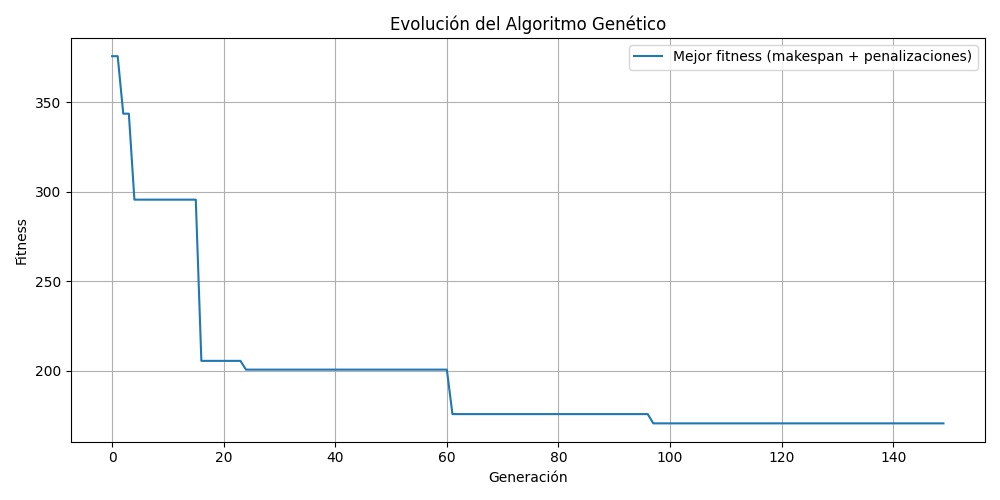
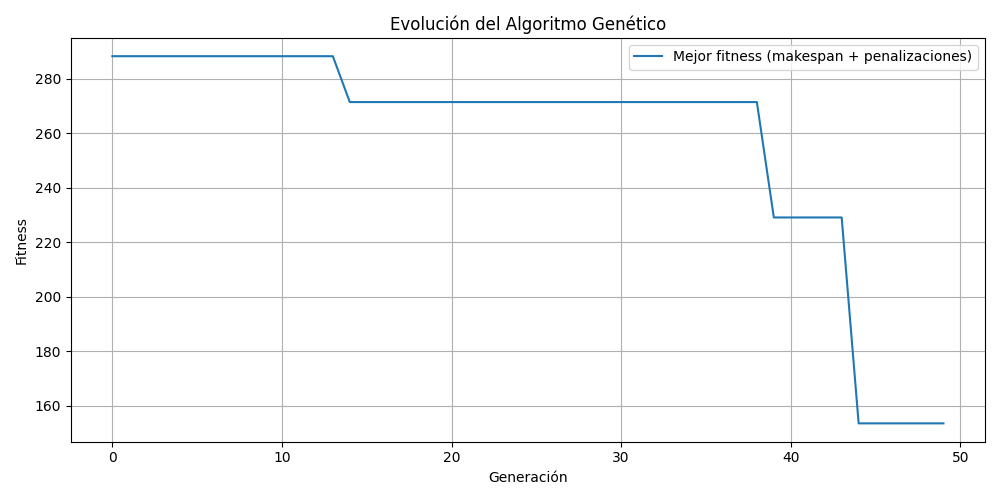
se cambio la lista de tareas por un diccionario unificado, se agregaron tipos de estaciones

diff --git a/src/gui/graph.py b/src/gui/graph.py
@@ -13,7 +13,7 @@ def graficar_evolucion(mejores):
     plt.savefig('results/evolucion_algoritmo.png')
     plt.show()
 
-def graficar_gantt(individuo, tiempos, num_estaciones, tareas):
+def graficar_gantt(individuo, infoTareas, num_estaciones, tareas):
     fig, ax = plt.subplots(figsize=(12, 6))
     colores = plt.cm.get_cmap('tab20', len(tareas))
     tiempos_actuales = [0]*num_estaciones
@@ -21,7 +21,7 @@ def graficar_gantt(individuo, tiempos, num_estaciones, tareas):
     for est_idx, est in enumerate(individuo):
         for tarea in est:
             inicio = tiempos_actuales[est_idx]
-            duracion = tiempos[tarea]
+            duracion = infoTareas[tarea]['tiempo']
             ax.broken_barh([(inicio, duracion)], (est_idx*10, 9), facecolors=colores(tareas.index(tarea)))
             ax.text(inicio + duracion/2, est_idx*10 + 4.5, tarea, ha='center', va='center', color='white', fontsize=8)
             tiempos_actuales[est_idx] += duracion
@@ -34,8 +34,8 @@ def graficar_gantt(individuo, tiempos, num_estaciones, tareas):
     plt.savefig('results/gantt_mejor_solucion.png')
     plt.show()
 
-def ventana_top_3(poblacion, tiempos, dependencias, fitness_func):
-    top_3 = sorted(poblacion, key=lambda ind: fitness_func(ind, dependencias, tiempos))[:3]
+def ventana_top_3(poblacion, infoTareas, dependencias, fitness_func):
+    top_3 = sorted(poblacion, key=lambda ind: fitness_func(ind, dependencias, infoTareas))[:3]
 
     ventana = tk.Toplevel()
     ventana.title("Top 3 mejores soluciones")
@@ -46,21 +46,21 @@ def ventana_top_3(poblacion, tiempos, dependencias, fitness_func):
 
     texto.insert(tk.END, "Tabla con los 3 mejores resultados:\n\n")
     for i, ind in enumerate(top_3, start=1):
-        texto.insert(tk.END, f"🔹 Individuo {i} - Fitness total: {fitness_func(ind, dependencias, tiempos):.2f}\n")
+        texto.insert(tk.END, f"🔹 Individuo {i} - Fitness total: {fitness_func(ind, dependencias, infoTareas):.2f}\n")
         ttf = 0
         for est_idx, est in enumerate(ind):
             tareas = ', '.join(est)
-            tiempo_total = sum(tiempos[t] for t in est)
+            tiempo_total = sum(infoTareas[t]['tiempo'] for t in est)
             texto.insert(tk.END, f"   Estación {est_idx+1}: [{tareas}] - Tiempo total: {tiempo_total}\n")
         texto.insert(tk.END, "\n")
 
     texto.config(state='disabled')
 
-def ventana_resumen_mejor(poblacion, tiempos, dependencias, fitness_func):
-    mejor = min(poblacion, key=lambda ind: fitness_func(ind, dependencias, tiempos))
-    cargas = [sum(tiempos[t] for t in est) for est in mejor]
+def ventana_resumen_mejor(poblacion, infoTareas, dependencias, fitness_func):
+    mejor = min(poblacion, key=lambda ind: fitness_func(ind, dependencias, infoTareas))
+    cargas = [sum(infoTareas[t]['tiempo'] for t in est) for est in mejor]
     makespan = max(cargas)
-    penalizaciones = fitness_func(mejor, dependencias, tiempos) - makespan
+    penalizaciones = fitness_func(mejor, dependencias, infoTareas) - makespan
 
     ventana = tk.Toplevel()
     ventana.title("Resumen del mejor individuo")

diff --git a/src/gui/visual.py b/src/gui/visual.py
@@ -1,4 +1,4 @@
-from src.ag import ejecutar_ag as ag
+from src.ag.ejecutar_ag import ejecutar_algoritmo_genetico
 import tkinter as tk
 from tkinter import messagebox
 import pandas as pd
@@ -16,6 +16,9 @@ def iniciar_interfaz():
             p_cruza = float(entry_cruza.get())
             p_mutacion = float(entry_mutacion.get())
 
+            if (isinstance(estaciones, int) and estaciones >=5):
+                raise ValueError("El valor de estaciones debe ser por lo menos de 5.")
+
             if not (0 <= p_cruza <= 1 and 0 <= p_mutacion <= 1):
                 raise ValueError("Las probabilidades deben estar entre 0.0 y 1.0")
 
@@ -23,33 +26,28 @@ def iniciar_interfaz():
             if not {'Nombre', 'Tiempo'}.issubset(tareas_df.columns):
                 raise ValueError("El archivo de tareas debe tener las columnas 'Nombre' y 'Tiempo'.")
 
-            nombres = list(tareas_df['Nombre'])
-            tiempos = dict(zip(tareas_df['Nombre'], tareas_df['Tiempo']))
+            nombresTareas = list(tareas_df['Nombre'])
+            infoTareas = {
+                row['Nombre']: {
+                    'tiempo': row['Tiempo'],
+                    'tipo': row['Tipo']
+                } for _, row in tareas_df.iterrows()
+        }
 
             # Convertir precedencias_df a diccionario de listas
             matPrecedencias = {}
-            #print("Claves de dependencias:", precedencias_df.index.unique())
-            #print("Valores para dependencias:", precedencias_df.columns)
-            for nombre in nombres:
+            for nombre in nombresTareas:
                 if nombre in precedencias_df.index:
                     deps = precedencias_df.loc[nombre]
-                    #print(f"Tarea: {nombre}")
-                    #print(f"Tipo deps: {type(deps)}")
-                    #print(deps)
                     if isinstance(deps, pd.DataFrame):
                         deps = deps.iloc[0]
-                        #print(f"Tarea: {nombre}")
-                        #print(f"Tipo deps: {type(deps)}")
-                        #print(deps)
                     matPrecedencias[nombre] = deps[deps == 1].index.tolist()
                 else:
                     matPrecedencias[nombre] = []
 
-            # Llama al algoritmo genético y obtiene los resultados
-            mejor_individuo, evolucion = ag.ejecutar_algoritmo_genetico(
-                nombres, tiempos, matPrecedencias, estaciones, poblacion, generaciones, p_cruza, p_mutacion)
-
-            #messagebox.showinfo("Éxito", "Algoritmo ejecutado correctamente. Revisa las gráficas generadas.")
+            # Llama al algoritmo genético
+            mejor_individuo, evolucion = ejecutar_algoritmo_genetico(
+                nombresTareas, infoTareas, matPrecedencias, estaciones, poblacion, generaciones, p_cruza, p_mutacion)
 
         except Exception as e:
             messagebox.showerror("Error", f"Datos inválidos:\n{e}")

diff --git a/src/ag/ejecutar_ag.py b/src/ag/ejecutar_ag.py
@@ -2,14 +2,14 @@ from src.ag.emparejamiento import emparejamiento
 from src.ag.cruza import cruza
 from src.ag.mutacion import mutacion
 from src.ag.poda import poda
-from src.ag.other_methods import generar_individuo
+from src.ag.individuos import generar_individuo
 from src.ag.fitness import fitness
 from src.gui import graph as graph
 
 import copy
 import random
 
-def ejecutar_algoritmo_genetico(tareas, tiempos, dependencias, num_estaciones,
+def ejecutar_algoritmo_genetico(tareas, infoTareas, dependencias, num_estaciones,
                                 tam_poblacion, num_generaciones, prob_cruza, prob_mutacion):
 
     poblacion = [generar_individuo(tareas, num_estaciones) for _ in range(tam_poblacion)]
@@ -39,11 +39,11 @@ def ejecutar_algoritmo_genetico(tareas, tiempos, dependencias, num_estaciones,
         poblacion.extend(nueva_poblacion)
 
         # Poda para mantener tamaño de población
-        poblacion = poda(poblacion, dependencias, tiempos, tam_poblacion)
+        poblacion = poda(poblacion, dependencias, infoTareas, tam_poblacion)
 
         # Evaluar mejor individuo
-        poblacion.sort(key=lambda ind: fitness(ind, dependencias, tiempos))
-        fit_actual = fitness(poblacion[0], dependencias, tiempos)
+        poblacion.sort(key=lambda ind: fitness(ind, dependencias, infoTareas))
+        fit_actual = fitness(poblacion[0], dependencias, infoTareas)
         evolucion.append(fit_actual)
         if fit_actual < mejor_fitness:
             mejor_fitness = fit_actual
@@ -51,8 +51,8 @@ def ejecutar_algoritmo_genetico(tareas, tiempos, dependencias, num_estaciones,
 
     # Graficar resultados
     graph.graficar_evolucion(evolucion)
-    graph.graficar_gantt(mejor_individuo, tiempos, num_estaciones, tareas)
-    graph.ventana_top_3(poblacion, tiempos, dependencias, fitness)
-    graph.ventana_resumen_mejor(poblacion, tiempos, dependencias, fitness)
+    graph.graficar_gantt(mejor_individuo, infoTareas, num_estaciones, tareas)
+    graph.ventana_top_3(poblacion, infoTareas, dependencias, fitness)
+    graph.ventana_resumen_mejor(poblacion, infoTareas, dependencias, fitness)
 
     return mejor_individuo, evolucion

diff --git a/src/ag/penalizaciones.py b/src/ag/penalizaciones.py
@@ -7,24 +7,16 @@ PENALIZACION_PRECEDENCIA = 3
 PENALIZACION_EXCESO_TAREAS = 10
 PENALIZACION_DESEQUILIBRIO = 10
 MAX_TAREAS_POR_ESTACION = 3
-PENALIZACION_ESTACION_VACIA = 15
+PENALIZACION_ESTACION_VACIA = 15 
 
-def generar_individuo(tareas, num_estaciones):
-    tareas_copia = tareas.copy()
-    random.shuffle(tareas_copia)
-    estaciones = [[] for _ in range(num_estaciones)]
-    for t in tareas_copia:
-        random.choice(estaciones).append(t)
-    return estaciones
-
-def evaluar_precedencias(estaciones, dependencias, tiempos):
+def evaluar_precedencias(estaciones, dependencias, infoTareas):
     orden_global = [t for est in estaciones for t in est]
     pos = {t:i for i,t in enumerate(orden_global)}
     penal = 0
     for tarea, deps in dependencias.items():
         for d in deps:
             if pos[d] > pos[tarea]:
-                penal += PENALIZACION_PRECEDENCIA * tiempos[tarea]
+                penal += PENALIZACION_PRECEDENCIA * infoTareas[tarea]['tiempo']
     return penal
 
 def evaluar_exceso_tareas(estaciones):
@@ -34,8 +26,8 @@ def evaluar_exceso_tareas(estaciones):
         penal += exceso * PENALIZACION_EXCESO_TAREAS
     return penal
 
-def evaluar_balanceo(estaciones, tiempos):
-    cargas = [sum(tiempos[t] for t in est) for est in estaciones]
+def evaluar_balanceo(estaciones, infoTareas):
+    cargas = [sum(infoTareas[t]['tiempo'] for t in est) for est in estaciones]
     desv = np.std(cargas)
     return desv * PENALIZACION_DESEQUILIBRIO
 
@@ -48,6 +40,6 @@ def evaluar_estaciones_vacias(estaciones):
     penal += estvoid * PENALIZACION_ESTACION_VACIA
     return penal
 
-def evaluar_makespan(estaciones, tiempos):
-    cargas = [sum(tiempos[t] for t in est) for est in estaciones]
+def evaluar_makespan(estaciones, infoTareas):
+    cargas = [sum(infoTareas[t]['tiempo'] for t in est) for est in estaciones]
     return max(cargas)

diff --git a/src/ag/fitness.py b/src/ag/fitness.py
@@ -1,12 +1,12 @@
-from src.ag.other_methods import evaluar_precedencias, evaluar_exceso_tareas, evaluar_balanceo, evaluar_makespan, evaluar_estaciones_vacias
+from src.ag.penalizaciones import evaluar_precedencias, evaluar_exceso_tareas, evaluar_balanceo, evaluar_makespan, evaluar_estaciones_vacias
 
-#funcion fitness que evalua un individuo, tomando en cuenta las penalizaciones por violaciones de restricciones
+#funcion fitness que evalua un individuo, 
+# tomando en cuenta las penalizaciones por violaciones de restricciones
 
-
-def fitness(estaciones, dependencias, tiempos):
+def fitness(estaciones, dependencias, infoTareas):
     penal = 0
-    penal += evaluar_precedencias(estaciones, dependencias, tiempos)
+    penal += evaluar_precedencias(estaciones, dependencias, infoTareas)
     penal += evaluar_exceso_tareas(estaciones)
-    penal += evaluar_balanceo(estaciones, tiempos)
+    penal += evaluar_balanceo(estaciones, infoTareas)
     penal += evaluar_estaciones_vacias(estaciones)
-    return evaluar_makespan(estaciones, tiempos) + penal
+    return evaluar_makespan(estaciones, infoTareas) + penal

diff --git a/src/ag/poda.py b/src/ag/poda.py
@@ -4,14 +4,14 @@ from src.ag.fitness import fitness
 # Poda se encarga de mantener el tamaño de la población y eliminar duplicados
 # se asegura que el mejor individuo siempre esté presente
 
-def poda(poblacion, dependencias, tiempos, tam_poblacion):
+def poda(poblacion, dependencias, infoTareas, tam_poblacion):
     poblacion_unica = {}
     for ind in poblacion:
         key = tuple(tuple(est) for est in ind)
         poblacion_unica[key] = ind
 
     poblacion = list(poblacion_unica.values())
-    poblacion.sort(key=lambda ind: fitness(ind, dependencias, tiempos))
+    poblacion.sort(key=lambda ind: fitness(ind, dependencias, infoTareas))
     mejor = poblacion[0]
 
     if len(poblacion) > tam_poblacion:

diff --git a/src/ag/individuos.py b/src/ag/individuos.py
@@ -1,0 +1,9 @@
+import random
+
+def generar_individuo(tareas, num_estaciones):
+    tareas_copia = tareas.copy()
+    random.shuffle(tareas_copia)
+    estaciones = [[] for _ in range(num_estaciones)]
+    for t in tareas_copia:
+        random.choice(estaciones).append(t)
+    return estaciones
